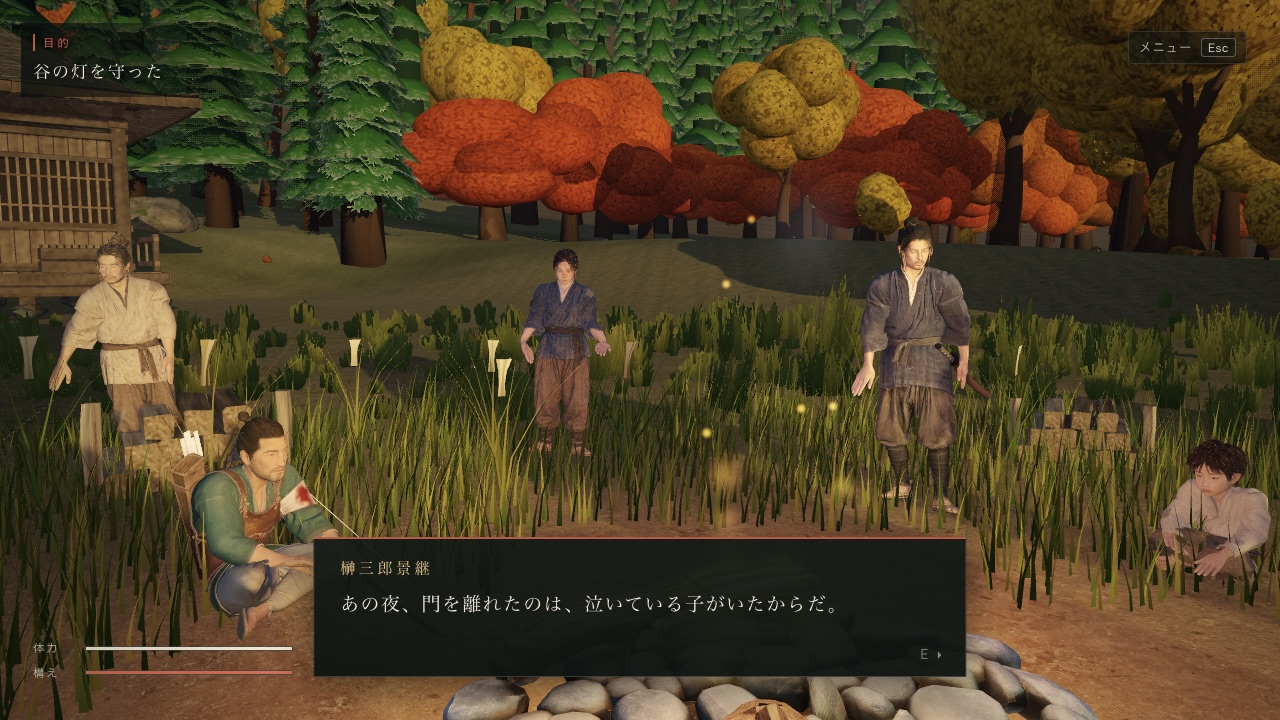
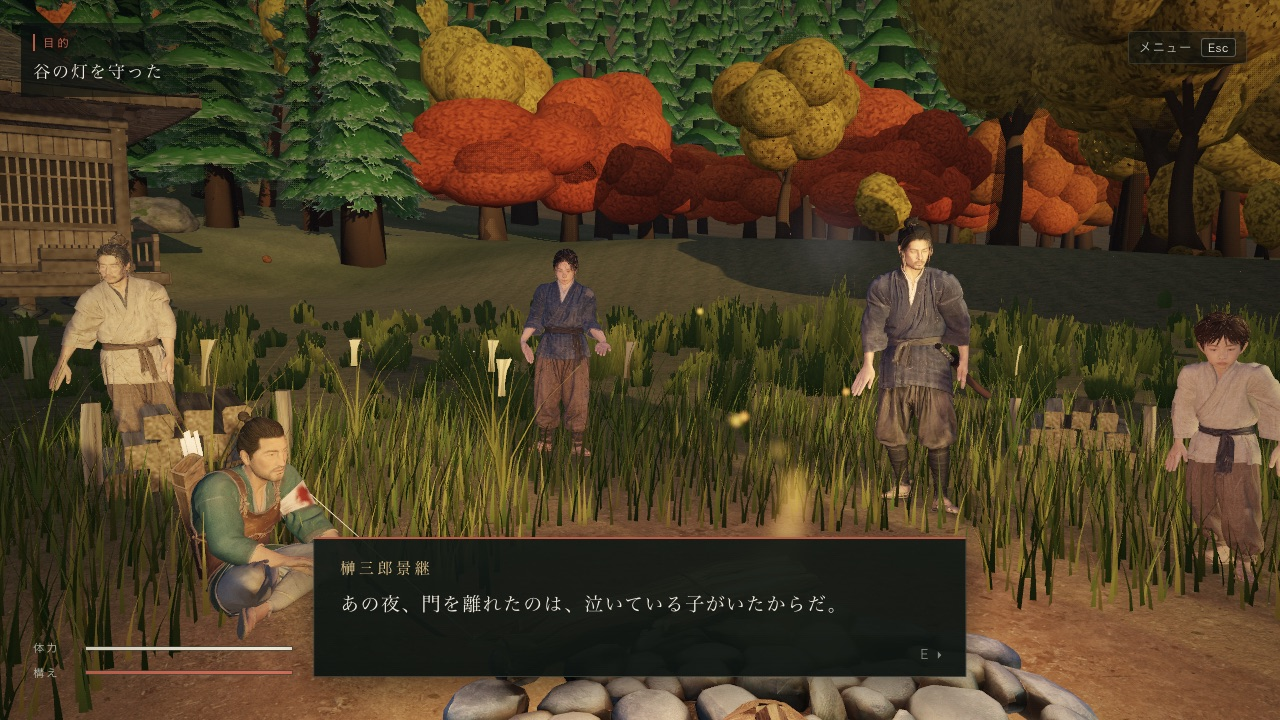
fix(story): frame the ending so the burning badge and the look at Hota are visible
The closing conversation is shot low across the fire, so the flames sit
above the dialogue box and the narration plays over the fire. Hota now
stands at the hero's right, and when the child is that close the look is
shot from the side away from the fire (over the shoulder hid him behind
the hero's back, and a seated child sat under the dialogue box). The
flare is a little smaller.

diff --git a/dist/valley/game.js b/dist/valley/game.js
@@ -430,13 +430,19 @@ export class Game {
   // 子を見つめる画角：主人公の右肩の後ろから、子の顔へ
   gazeShot(boy) {
     const h = this.hero.pos, b = boy.pos, d = Math.hypot(b.x - h.x, b.z - h.z) || 1, ux = (b.x - h.x) / d, uz = (b.z - h.z) / d;
+    if (d < 2) {
+      // すぐ隣に座る子（結末）：肩越しだと主人公の背で子が隠れる。二人を横から、焚き火と反対の側から撮る（子へ向く横顔が見える）
+      const f = WORLD.props.find(p => p.id === 'bonfire'), mx = (h.x + b.x) / 2, mz = (h.z + b.z) / 2;
+      const s = Math.hypot(mx - uz * 2.4 - f.x, mz + ux * 2.4 - f.z) > Math.hypot(mx + uz * 2.4 - f.x, mz - ux * 2.4 - f.z) ? 1 : -1;
+      return { pos: [mx - s * uz * 2.6, 1.2, mz + s * ux * 2.6], look: [mx, 1.3, mz], fov: 44 };   // 子の顔と主人公の顔が、どちらも会話の枠より上に入る高さ
+    }
     return { pos: [h.x - ux * 1.7 + uz * 0.55, 1.62, h.z - uz * 1.7 - ux * 0.55], look: [b.x, 0.85, b.z], fov: 36 };
   }
-  // 結末の画角（焚き火の向こうから二人を／主人公に寄る）
+  // 結末の画角（焚き火の向こうから二人を／火越しに主人公を）
   endingShot(id) {
     const f = WORLD.props.find(p => p.id === 'bonfire');
     return id === 'ending_truth' ? { pos: [f.x - 0.2, 1.35, f.z + 2.5], look: [f.x - 0.5, 0.9, f.z - 1.8], fov: 44 }
-      : { pos: [f.x - 0.6, 1.3, f.z + 1.4], look: [f.x + 1.0, 1.15, f.z - 2.5], fov: 38 };
+      : { pos: [f.x - 0.75, 0.6, f.z + 1.9], look: [f.x + 0.3, 0.85, f.z - 0.8], fov: 46 };   // 結び：低く火越しに。炎が画の中ほど（会話の枠の上）に来て、くべた袖印の炎も見える
   }
   // 体力と構えを戻す（里を守ったあと・待ち伏せを退けたあと。戦いの合間に息をつける）
   healHero(amount, text) {
@@ -482,10 +488,10 @@ export class Game {
         const p = at(dx * ring.scale, dz * ring.scale); n.place(p.x, p.z, p.yaw); n.route = null; n.goal = null; n.lookAt({ x: f.x, z: f.z });
         if (ring.sit) n.setCower(true); else n.mode = 'idle';
       }
-      // 穂太は火のそばに座る（結末で景継が見る相手）
+      // 穂太は火のそば、主人公の隣にいる（結末で景継が見る相手）
 
       const boy = this.npcs.get('boy') || this.makeNpc('boy');
-      if (boy) { const bp = at(2.1, -1.5); boy.goal = null; boy.place(bp.x, bp.z, bp.yaw); boy.setCower(true); }   // 主人公の右隣（火の北東2.6mの茂みを画角から外す）
+      if (boy) { const bp = at(2.1, -1.5); boy.goal = null; boy.place(bp.x, bp.z, bp.yaw); boy.setCower(false); boy.lookAt({ x: f.x, z: f.z }); }   // 主人公の右隣に立つ（座ると、見つめる間の画で子の顔が会話の枠に隠れた）
       const walker = this.npcs.get('r_walker'); if (walker) { walker.remove(); this.npcs.delete('r_walker'); }
       this.npcs.get('v_old')?.place(old.x, old.z, old.yaw); this.npcs.get('v_old')?.setCower(false);
       this.npcs.get('v_tsubaki')?.place(tsu.x, tsu.z, tsu.yaw); this.npcs.get('v_tsubaki')?.setCower(false);
@@ -913,7 +919,7 @@ export class Game {
       const p = { x: f.x, y: this.terrain.heightAt(f.x, f.z) + 0.15, z: f.z };
       this.fx.flame(p); if (this.rng() < 0.4) this.fx.ember({ ...p, y: p.y + 0.4 }); if (this.rng() < 0.12) this.fx.smoke({ ...p, y: p.y + 0.9 });
       // 袖印をくべた：炎が少しのあいだ高く上がり、火の粉が増える（音なし）
-      if (this.flareT > 0) { this.flareT -= 0.06; for (let i = 0; i < 3; i++) this.fx.flame({ ...p, y: p.y + 0.15 + i * 0.12 }); this.fx.ember({ ...p, y: p.y + 0.5 }); this.fx.ember({ ...p, y: p.y + 0.7 }); }
+      if (this.flareT > 0) { this.flareT -= 0.06; for (let i = 0; i < 2; i++) this.fx.flame({ ...p, y: p.y + 0.15 + i * 0.14 }); this.fx.ember({ ...p, y: p.y + 0.6 }); }
     }
     // 農家の煙突から細い煙（近くの家だけ）
     this.chimneyT = (this.chimneyT || 0) - 0.06;
